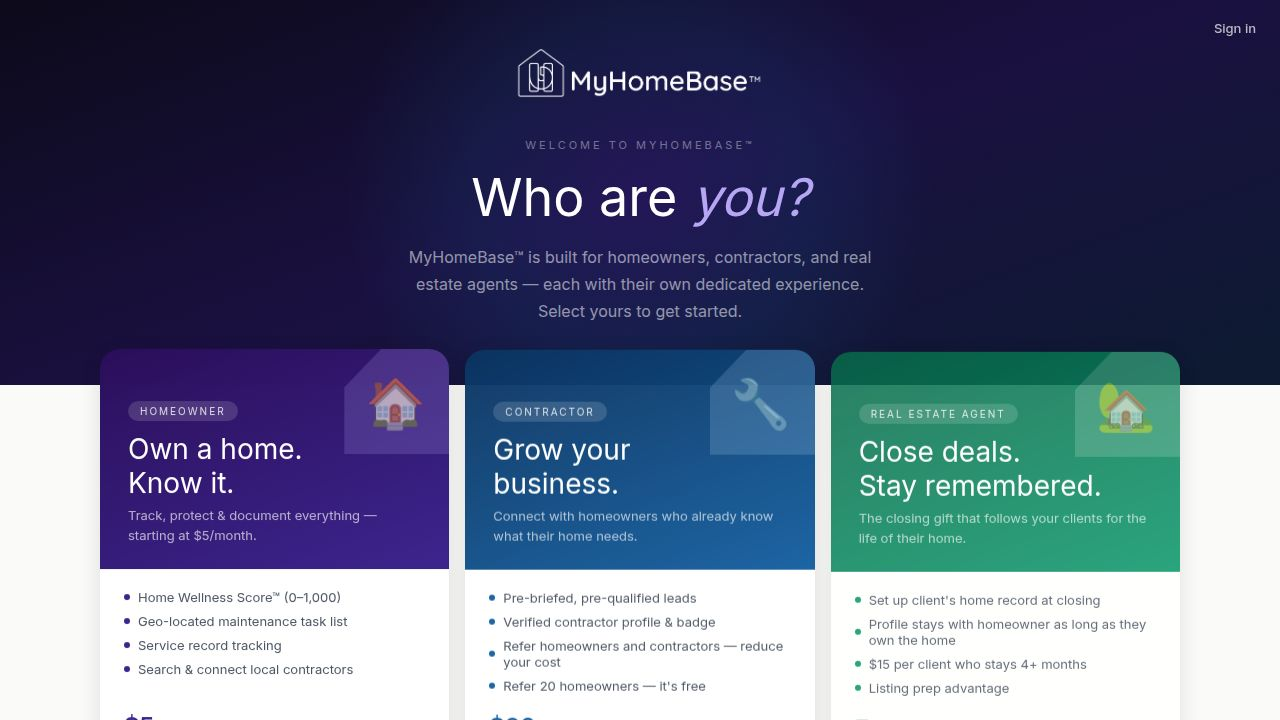
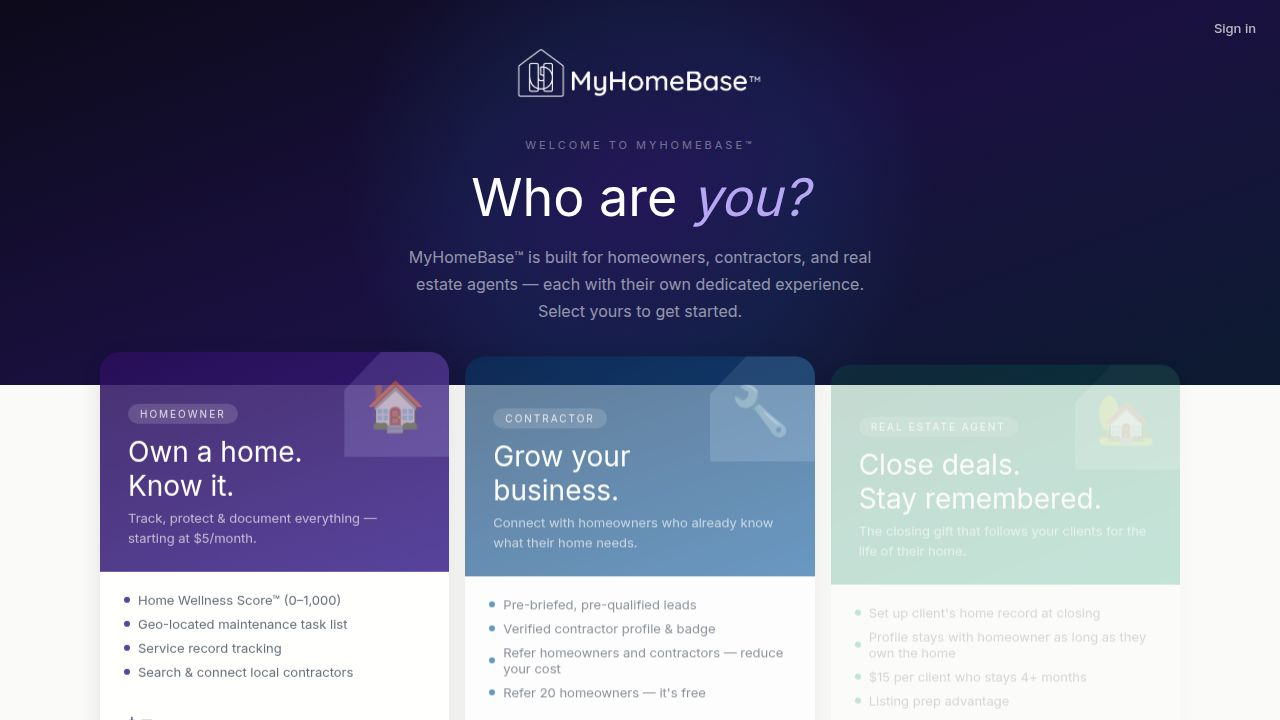
Display correct lot size and property type for homes
Update API route to use correct lot size field (sqft instead of acres) and display property type, and update the frontend to show lot square footage in the property details.

Replit-Commit-Author: Agent
Replit-Commit-Session-Id: 3eb3ce50-1d0b-40fd-8711-a14be58a275c
Replit-Commit-Checkpoint-Type: full_checkpoint
Replit-Commit-Event-Id: 199e9456-01f8-4073-b0be-23adc76c6f12
Replit-Commit-Screenshot-Url: https://storage.googleapis.com/screenshot-production-us-central1/1b6d563c-f6b4-422c-a32f-0b12e8931ee1/3eb3ce50-1d0b-40fd-8711-a14be58a275c/R2pe7n4
Replit-Helium-Checkpoint-Created: true

diff --git a/artifacts/api-server/src/routes/routes.ts b/artifacts/api-server/src/routes/routes.ts
@@ -11153,9 +11153,10 @@ export async function registerRoutes(app: Express): Promise<Server> {
           yearBuilt:    sum.yearbuilt    ?? null,
           bedrooms:     rooms.beds       ?? null,
           bathrooms:    rooms.bathsfull != null ? (rooms.bathsfull + (rooms.bathshalf ?? 0) * 0.5) : null,
-          sqft:         size.livingsize  ?? size.universalsize ?? null,
-          lotSqft:      lot.lotsize1     ?? null,
-          propertyType: sum.proptype     ?? null,
+          sqft:         size.livingsize  ?? size.universalsize ?? size.bldgsize ?? null,
+          // lotsize2 is sqft; lotsize1 is acres — use sqft for the strip
+          lotSqft:      lot.lotsize2     ?? (lot.lotsize1 ? Math.round(lot.lotsize1 * 43560) : null),
+          propertyType: sum.propertyType ?? sum.proptype ?? null,
         };
       }
 

diff --git a/artifacts/myhomebase/src/pages/home.tsx b/artifacts/myhomebase/src/pages/home.tsx
@@ -254,6 +254,7 @@ export default function Home() {
               if (s.bedrooms)  stats.push({ val: String(s.bedrooms), label: "Beds" });
               if (s.bathrooms) stats.push({ val: String(s.bathrooms), label: "Baths" });
               if (s.sqft)      stats.push({ val: s.sqft.toLocaleString(), label: "Sq Ft" });
+              if (s.lotSqft)   stats.push({ val: s.lotSqft.toLocaleString(), label: "Lot Sq Ft" });
               if (s.estimatedValue) stats.push({ val: `$${Math.round(s.estimatedValue / 1000)}K`, label: "Est. Value" });
               if (stats.length === 0) return null;
               return (